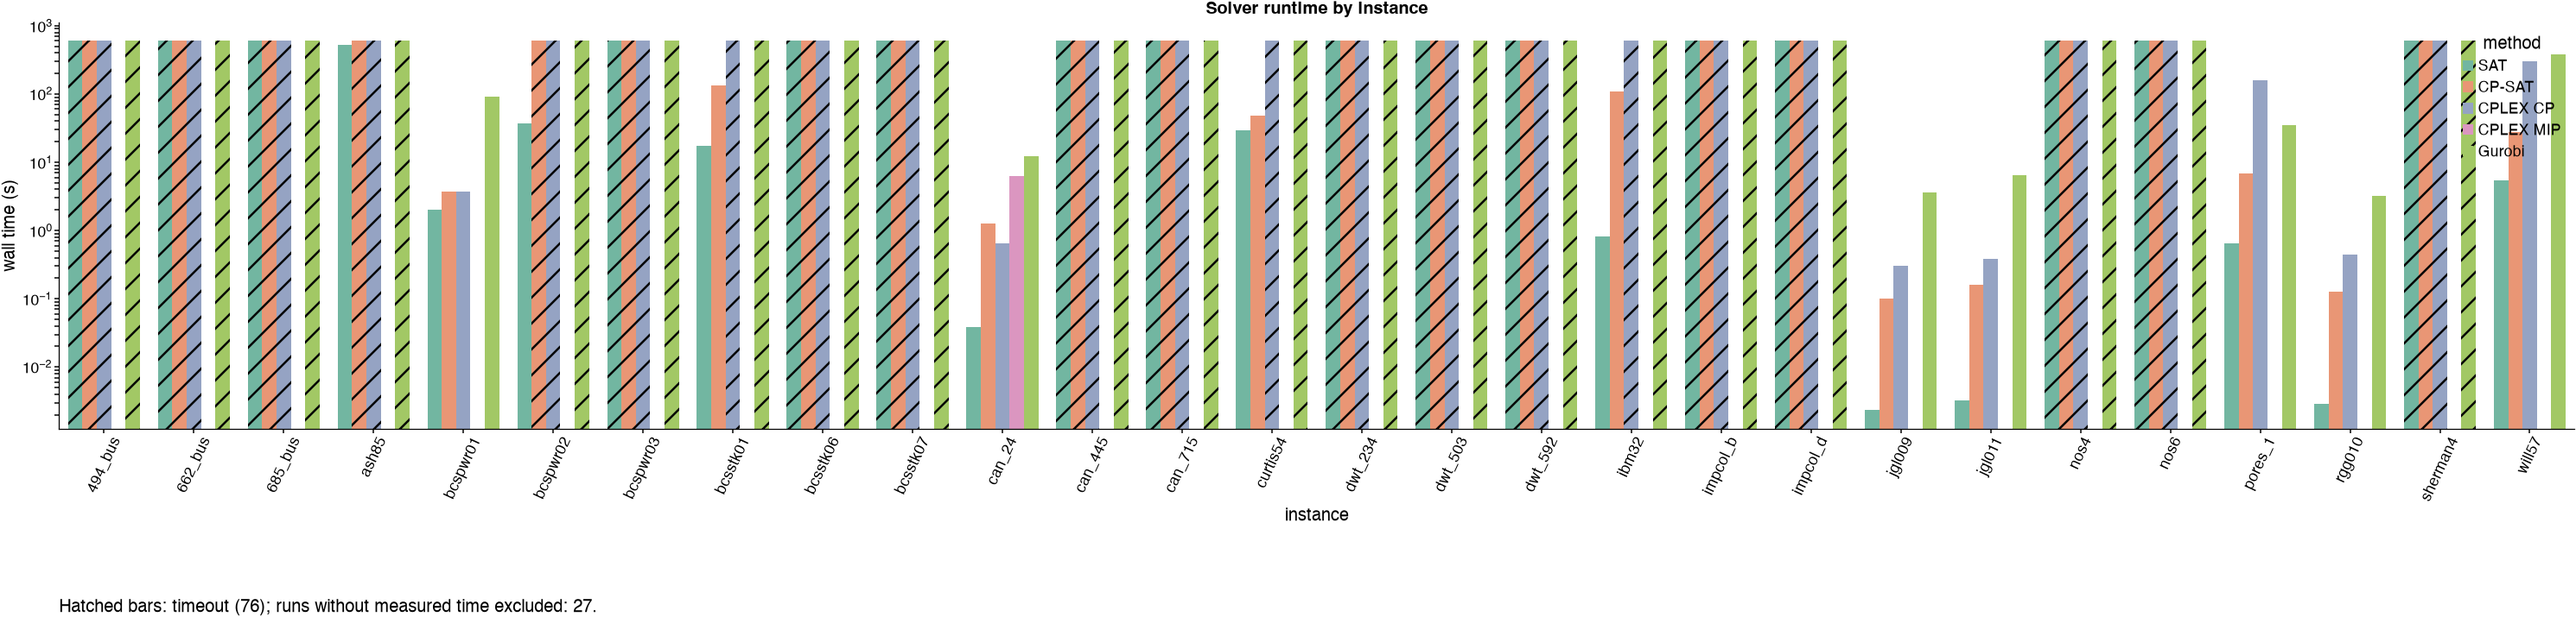
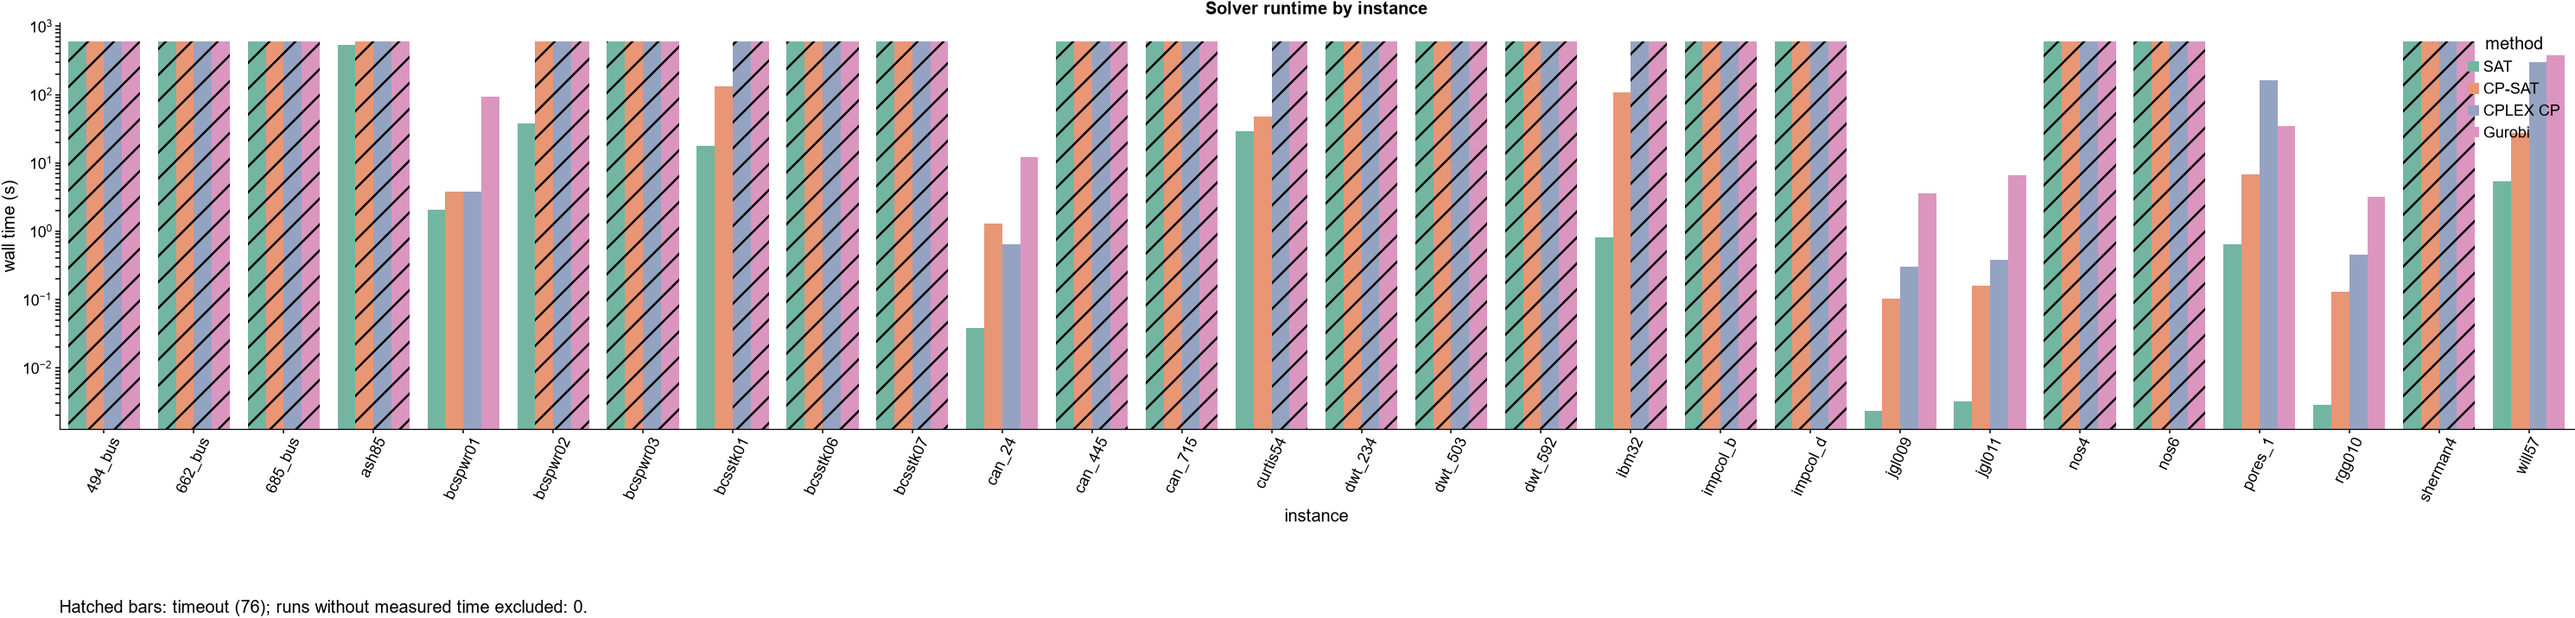
Drop CPLEX MIP results (license size limits)

diff --git a/experiments.py b/experiments.py
@@ -17,7 +17,6 @@ LARGE = ("ash85", "bcspwr03", "will57")
 EXTERNAL_SOLVERS = {
     "CP-SAT": cp_sat.solve,
     "CPLEX CP": cplex_cp.solve,
-    "CPLEX MIP": cplex_mip.solve,
     "Gurobi": gurobi.solve,
 }
 
